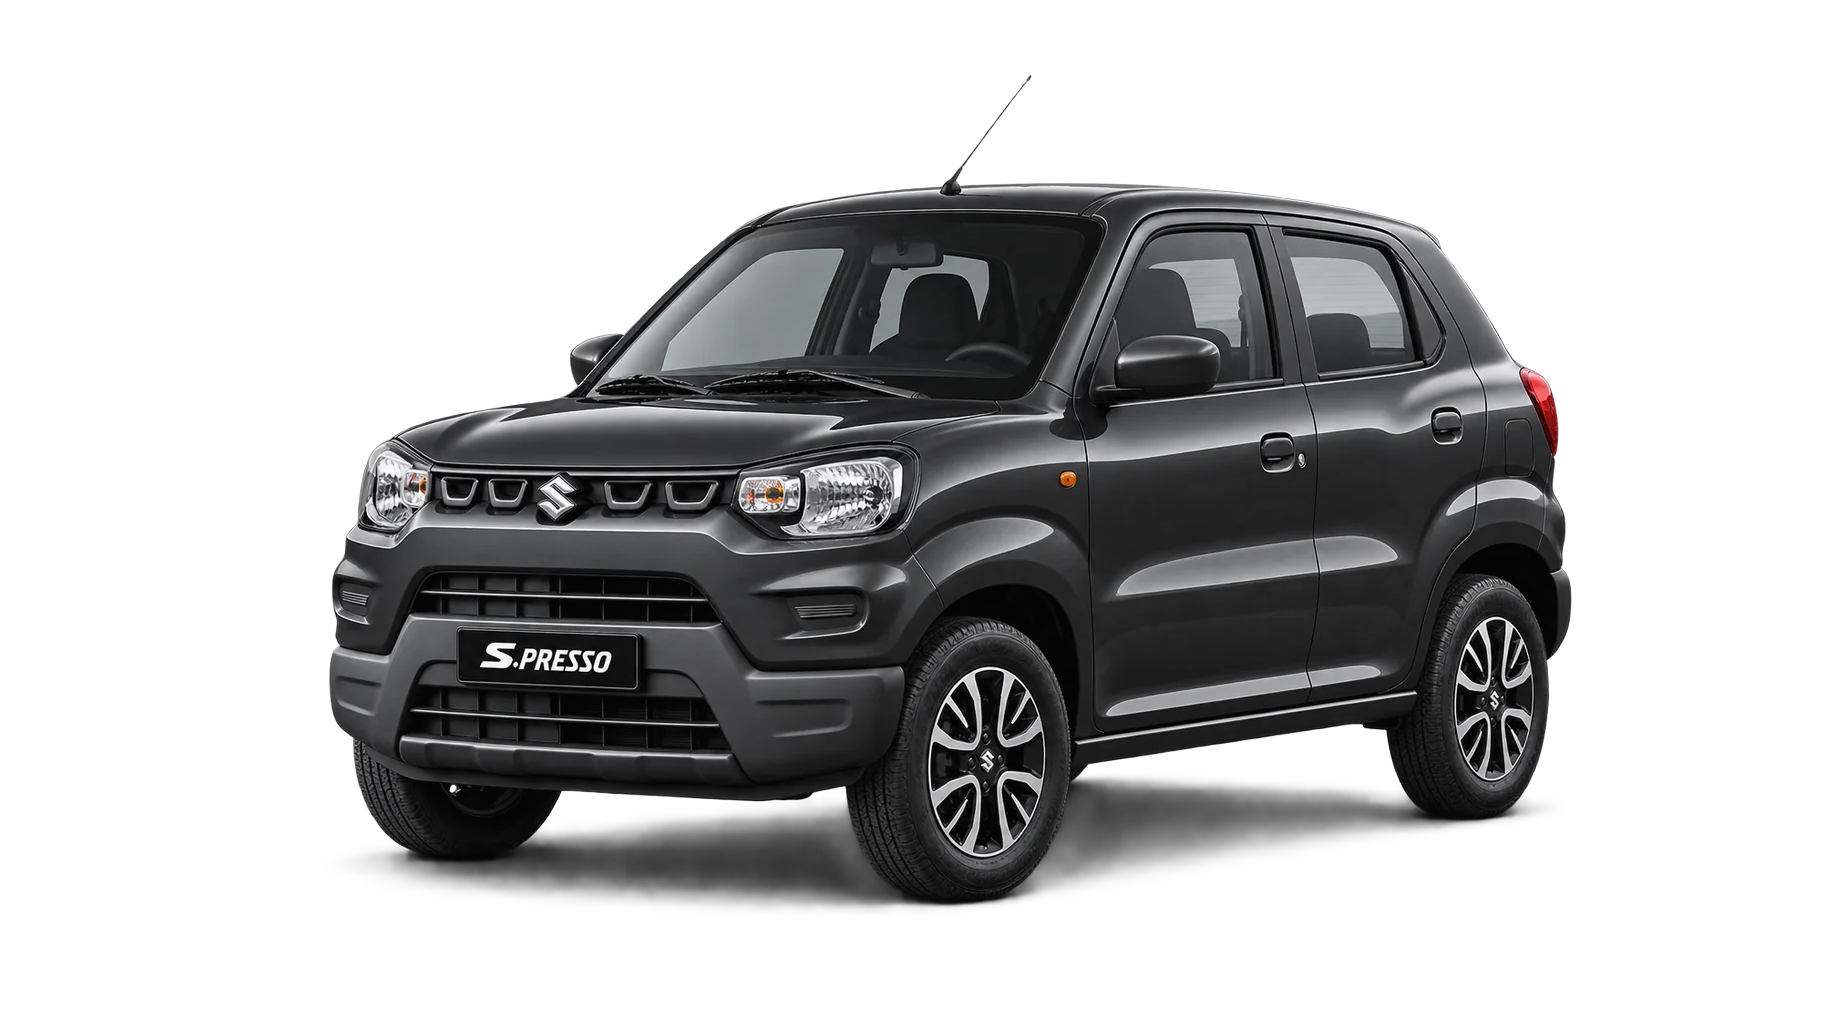
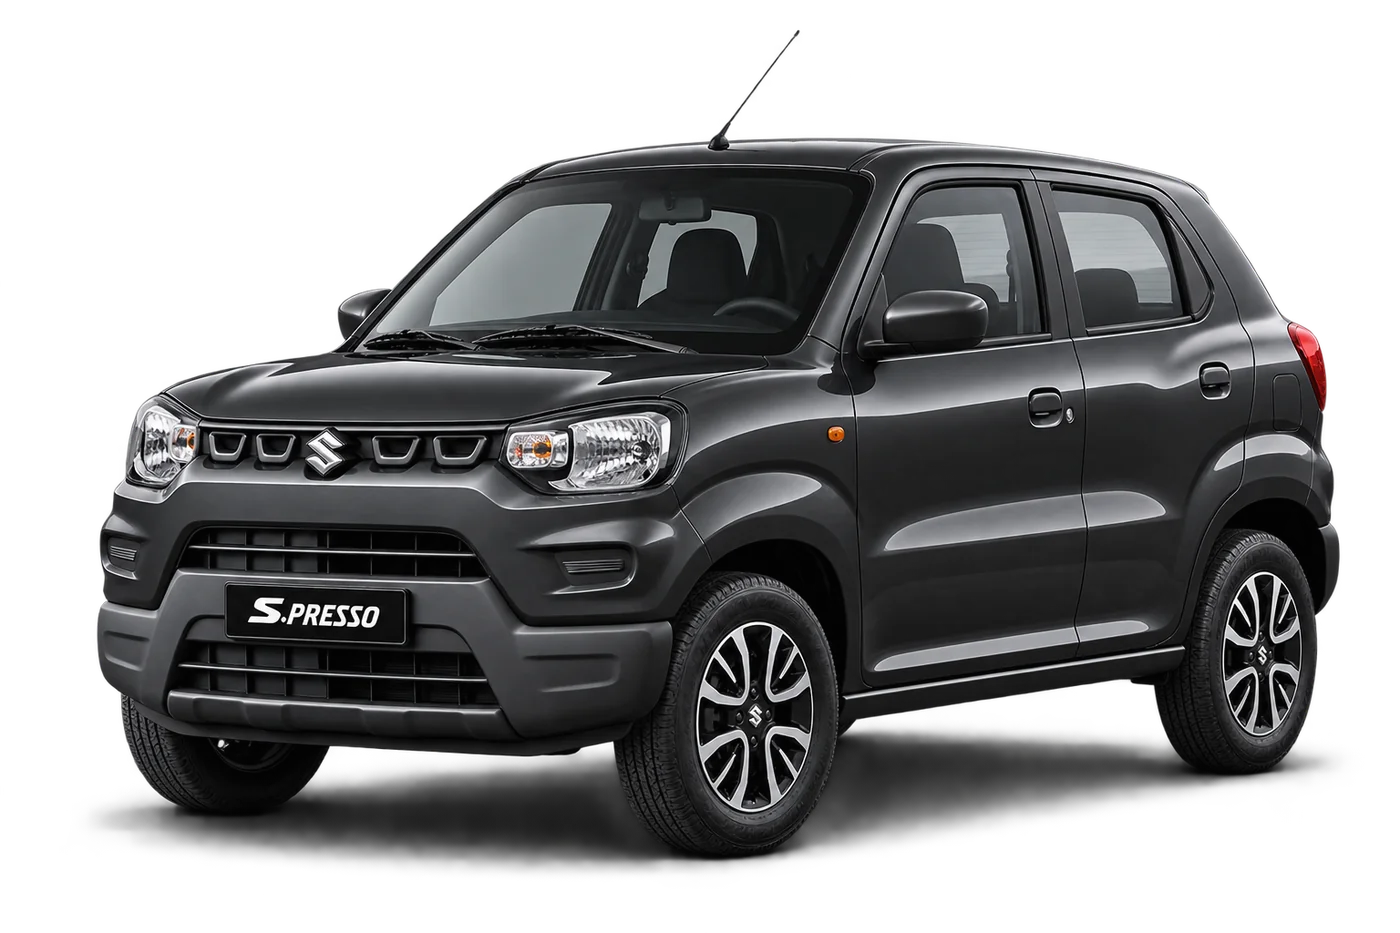
fix: afina os recortes re-enquadrados da frota (~80% largura) e reverte S-Presso

diff --git a/src/data/fleetPresentation.ts b/src/data/fleetPresentation.ts
@@ -25,7 +25,7 @@ const FLEET_IMAGE_SCALES: Record<string, number> = {
   'suzuki-celerio': 1.13,
   'hyundai-g-i10': 1.18,
   'hyundai-i-20': 1.22,
-  'suzuki-spresso': 1.18,
+  'suzuki-spresso': 1.08,
   'suzuki-swift': 1.09,
   'toyota-starlet': 1.11,
   'suzuki-baleno': 1.15,
@@ -49,24 +49,24 @@ const FLEET_IMAGE_SCALES: Record<string, number> = {
   'new-toyota-hiace': 1.11,
   'mercedes-sprinter-atual': 1.06,
   'nissan-patrol': 1.03,
-  'new-toyota-prado': 1.11,
+  'new-toyota-prado': 1.17,
   'mercedes-brabus': 0.97,
   'mercedes-cls63': 1.11,
   'toyota-coaster': 1.09,
   'hyundai-staria-executiva': 1.13,
   'toyota-lc-v8-2021': 1.07,
-  'range-rover': 1.14,
+  'range-rover': 1.18,
   'lexus-570': 1.21,
   'toyota-lc300-2023': 1.13,
   'mercedes-g63-2023': 1.11,
   'mercedes-vito': 1.0,
   'mercedes-benz-v300-class': 1.03,
-  'mercedes-g63': 1.16,
+  'mercedes-g63': 1.18,
   'lexus-600': 1.11,
   'limousine': 1.08,
   'range-rover-novo-modelo': 1.25,
   'mercedes-class-s-2025': 1.1,
-  'rangerover-blindado-2025': 1.14,
+  'rangerover-blindado-2025': 1.22,
   'chery-himla': 1.21,
   'jac-sunray': 1.1,
   'baw-m7': 1.12,
@@ -86,7 +86,7 @@ const FLEET_IMAGE_OFFSET_Y: Record<string, string> = {
   'suzuki-celerio': '8%',
   'hyundai-g-i10': '11%',
   'hyundai-i-20': '23%',
-  'suzuki-spresso': '6%',
+  'suzuki-spresso': '5%',
   'suzuki-swift': '8%',
   'toyota-starlet': '7%',
   'suzuki-baleno': '10%',
@@ -107,14 +107,16 @@ const FLEET_IMAGE_OFFSET_Y: Record<string, string> = {
   'hyundai-h1': '12%',
   'hyundai-staria-atual': '12%',
   'new-toyota-hiace': '5%',
+  'new-toyota-prado': '5%',
   'mercedes-sprinter-atual': '4%',
   'nissan-patrol': '5%',
+  'mercedes-g63': '5%',
   'mercedes-brabus': '7%',
   'mercedes-cls63': '15%',
   'toyota-coaster': '2%',
   'hyundai-staria-executiva': '12%',
   'toyota-lc-v8-2021': '5%',
-  'range-rover': '2%',
+  'range-rover': '6%',
   'lexus-570': '15%',
   'toyota-lc300-2023': '3%',
   'mercedes-g63-2023': '6%',
@@ -123,7 +125,7 @@ const FLEET_IMAGE_OFFSET_Y: Record<string, string> = {
   'lexus-600': '10%',
   'range-rover-novo-modelo': '18%',
   'mercedes-class-s-2025': '14%',
-  'rangerover-blindado-2025': '6%',
+  'rangerover-blindado-2025': '11%',
   'chery-himla': '12%',
   'jac-sunray': '6%',
   'baw-m7': '8%',

diff --git a/scripts/recanvas-fleet-outliers.py b/scripts/recanvas-fleet-outliers.py
@@ -9,15 +9,20 @@ viatura ficam 1:1, sem perda) e colamo-la numa tela transparente 16/9, centrada
 na horizontal e assente na base. Assim o `object-contain` passa a encaixar pela
 largura e a escala fica perto de 1.0.
 
-O ficheiro original é guardado em 01-oficial.orig.webp (só na 1.ª vez).
+IDEMPOTÊNCIA: NÃO é idempotente. Recorta sempre a bbox opaca da imagem ATUAL,
+por isso correr duas vezes encolhe a moldura transparente a cada passagem.
+Antes de re-executar: `git checkout HEAD -- public/fleet-flyer-2026/<slug>/01-oficial.webp`
+para partir do ficheiro pristino. (Guardar em .orig.webp foi descartado porque
+public/ é publicado em dist/.)
 """
 import pathlib
 from PIL import Image
 
 ROOT = pathlib.Path(__file__).resolve().parents[1]
 
+# suzuki-s-presso NÃO entra: o recorte é quase quadrado (asp ~1.5, provável
+# foto em 3/4) e re-enquadrar não ajuda — ficaria alto demais para a moldura.
 TARGETS = [
-    "suzuki-s-presso",
     "mercedes-g63-atual",
     "range-rover-blindado-2025",
     "novo-toyota-prado",
@@ -32,14 +37,11 @@ BOTTOM_MARGIN = 0.05  # folga por baixo da viatura
 for slug in TARGETS:
     d = ROOT / "public/fleet-flyer-2026" / slug
     src = d / "01-oficial.webp"
-    backup = d / "01-oficial.orig.webp"
     if not src.exists():
         print(f"# FALTA {src}")
         continue
-    if not backup.exists():
-        Image.open(src).save(backup, "WEBP", lossless=True, quality=100)
 
-    im = Image.open(backup if backup.exists() else src).convert("RGBA")
+    im = Image.open(src).convert("RGBA")
     bbox = im.getbbox()
     car = im.crop(bbox)
     cw, ch = car.size
